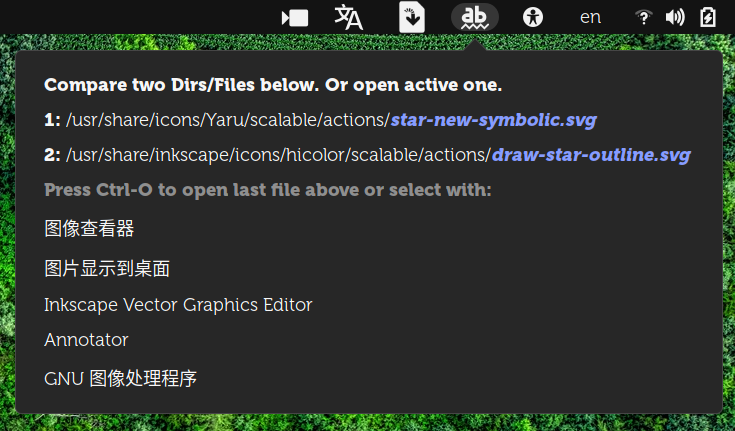
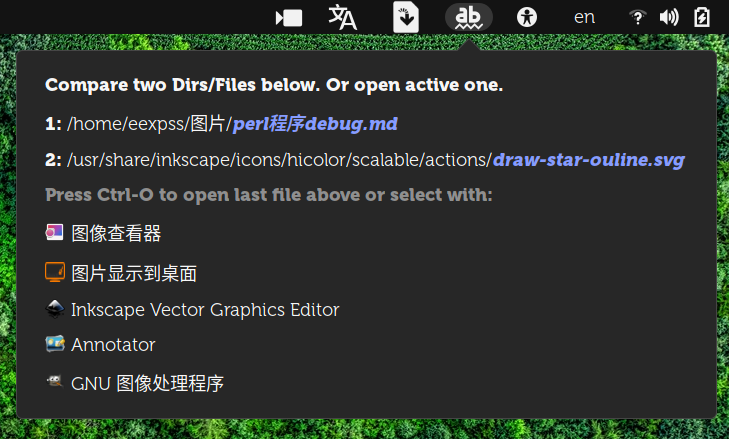
gettext-domain

diff --git a/extension.js b/extension.js
@@ -1,15 +1,5 @@
-const GETTEXT_DOMAIN = 'compare';
-const debug = false;
-function lg(s){ if(debug) log("==="+GETTEXT_DOMAIN+"===>"+s); }
-let file = [];
-let clip0 = "";
-let clip1 = "";
-
 const { GObject, GLib, Pango, St } = imports.gi;
 const { Meta, Gio, Shell } = imports.gi;	//for Keybinding
-
-const Gettext = imports.gettext.domain(GETTEXT_DOMAIN);
-const _ = Gettext.gettext;
 
 const ExtensionUtils = imports.misc.extensionUtils;
 const Main = imports.ui.main;
@@ -17,10 +7,20 @@ const Me = imports.misc.extensionUtils.getCurrentExtension();
 const PanelMenu = imports.ui.panelMenu;
 const PopupMenu = imports.ui.popupMenu;
 
+const MyDomain = Me.metadata['gettext-domain'];
+const Gettext = imports.gettext.domain(MyDomain);
+const _ = Gettext.gettext;
+
+const debug = false;
+function lg(s){ if(debug) log("==="+MyDomain+"===>"+s); }
+let file = [];
+let clip0 = "";
+let clip1 = "";
+
 const Indicator = GObject.registerClass(
 class Indicator extends PanelMenu.Button {
 	_init() {
-		super._init(0.0, _('Compare Dir/File'));
+		super._init(0.0, _(Me.metadata['name']));
 		lg("start");
 		const that = this;
 
@@ -54,8 +54,7 @@ class Indicator extends PanelMenu.Button {
 			});
 		});
 
-		Main.wm.addKeybinding("open-last-file-in-termianl", getSettings(), Meta.KeyBindingFlags.NONE, Shell.ActionMode.ALL, () => {
-			//~ lg('Ctrl-O');
+		Main.wm.addKeybinding("open-last-file-in-termianl", ExtensionUtils.getSettings(), Meta.KeyBindingFlags.NONE, Shell.ActionMode.ALL, () => {
 			if(file[1]) open(1); else if(file[0]) open(0);
 		});
 
@@ -96,7 +95,7 @@ class Indicator extends PanelMenu.Button {
 			cm.cmd = '--xxx--';
 			that.menu.addMenuItem(cm);
 			apps.forEach((i) => {
-				const ca = new PopupMenu.PopupMenuItem(i.get_display_name());
+				const ca = new PopupMenu.PopupImageMenuItem(i.get_display_name(), i.get_icon());
 				lg(i.get_display_name());
 				ca.cmd = i.get_commandline();
 				ca.connect('activate', (actor) => {
@@ -156,24 +155,11 @@ class Indicator extends PanelMenu.Button {
 	};
 });
 
-function getSettings() {
-	let GioSSS = Gio.SettingsSchemaSource;
-	let schemaSource = GioSSS.new_from_directory(
-		Me.dir.get_child("schemas").get_path(),
-		GioSSS.get_default(), false
-	);
-	let schemaObj = schemaSource.lookup('org.gnome.shell.extensions.compare', true);
-	if (!schemaObj) {
-	throw new Error('cannot find schemas');
-	}
-	return new Gio.Settings({ settings_schema : schemaObj });
-}
-
 class Extension {
 	constructor(uuid) {
 		this._uuid = uuid;
 
-		ExtensionUtils.initTranslations(GETTEXT_DOMAIN);
+		ExtensionUtils.initTranslations(MyDomain);
 	}
 
 	enable() {
